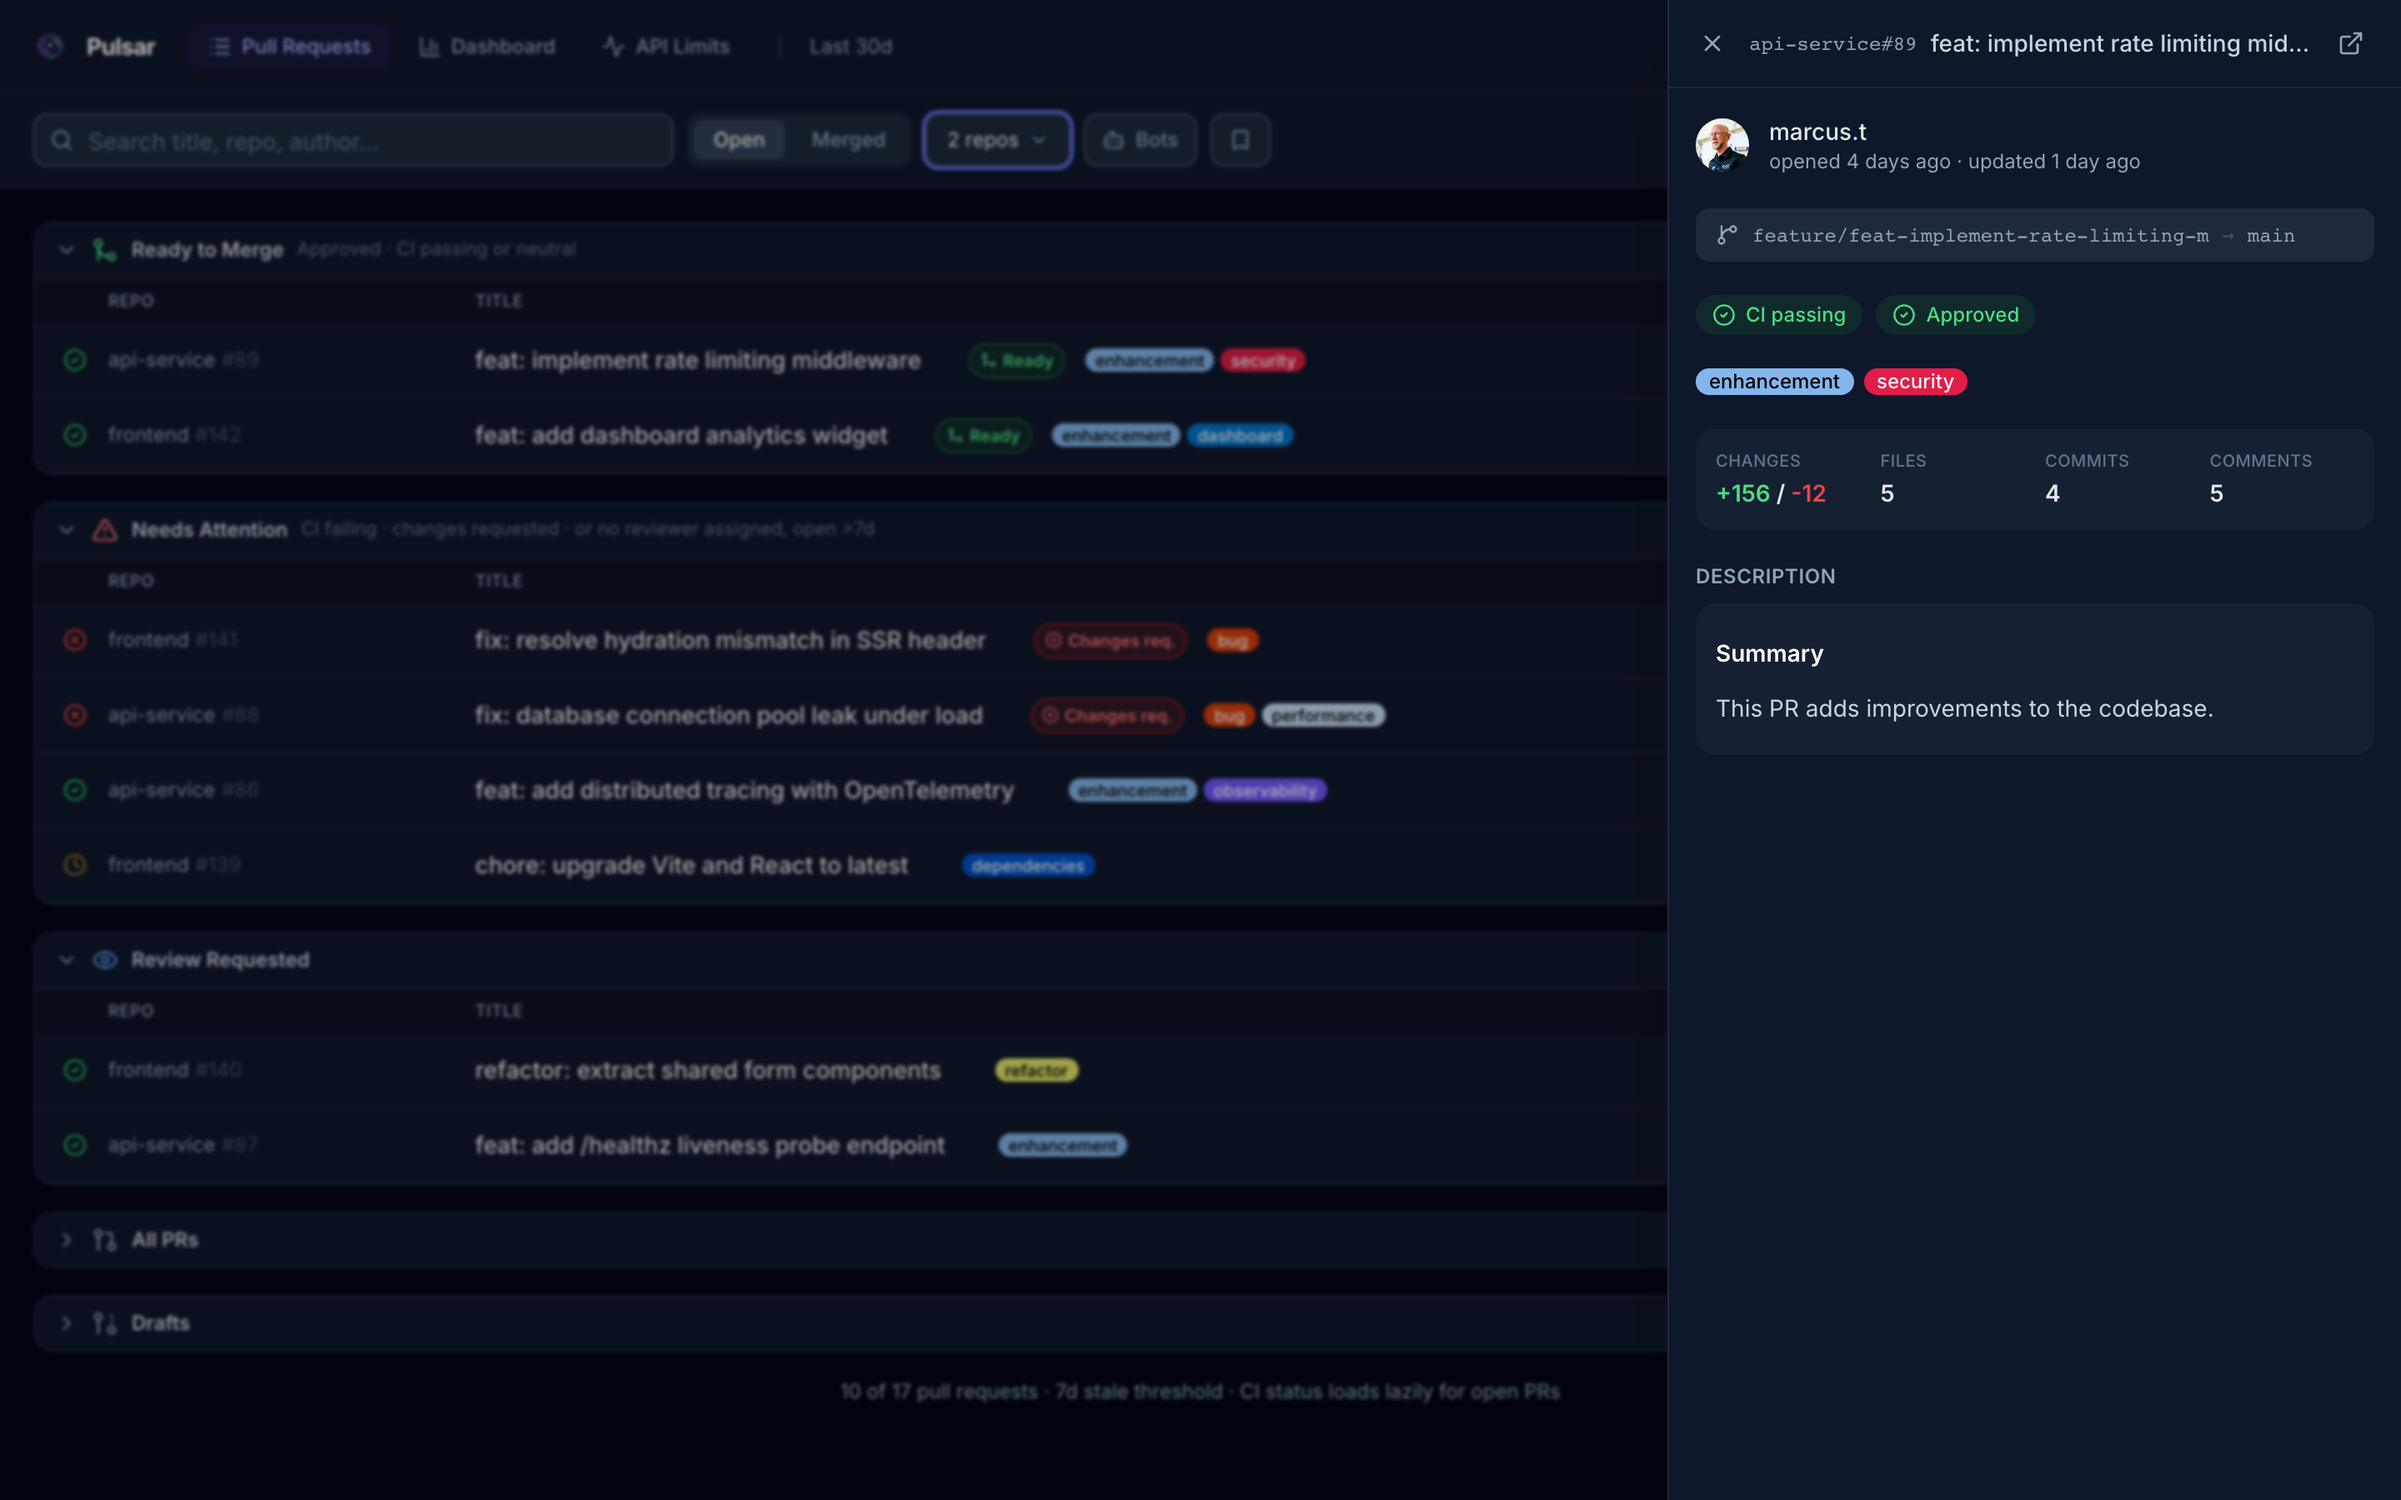
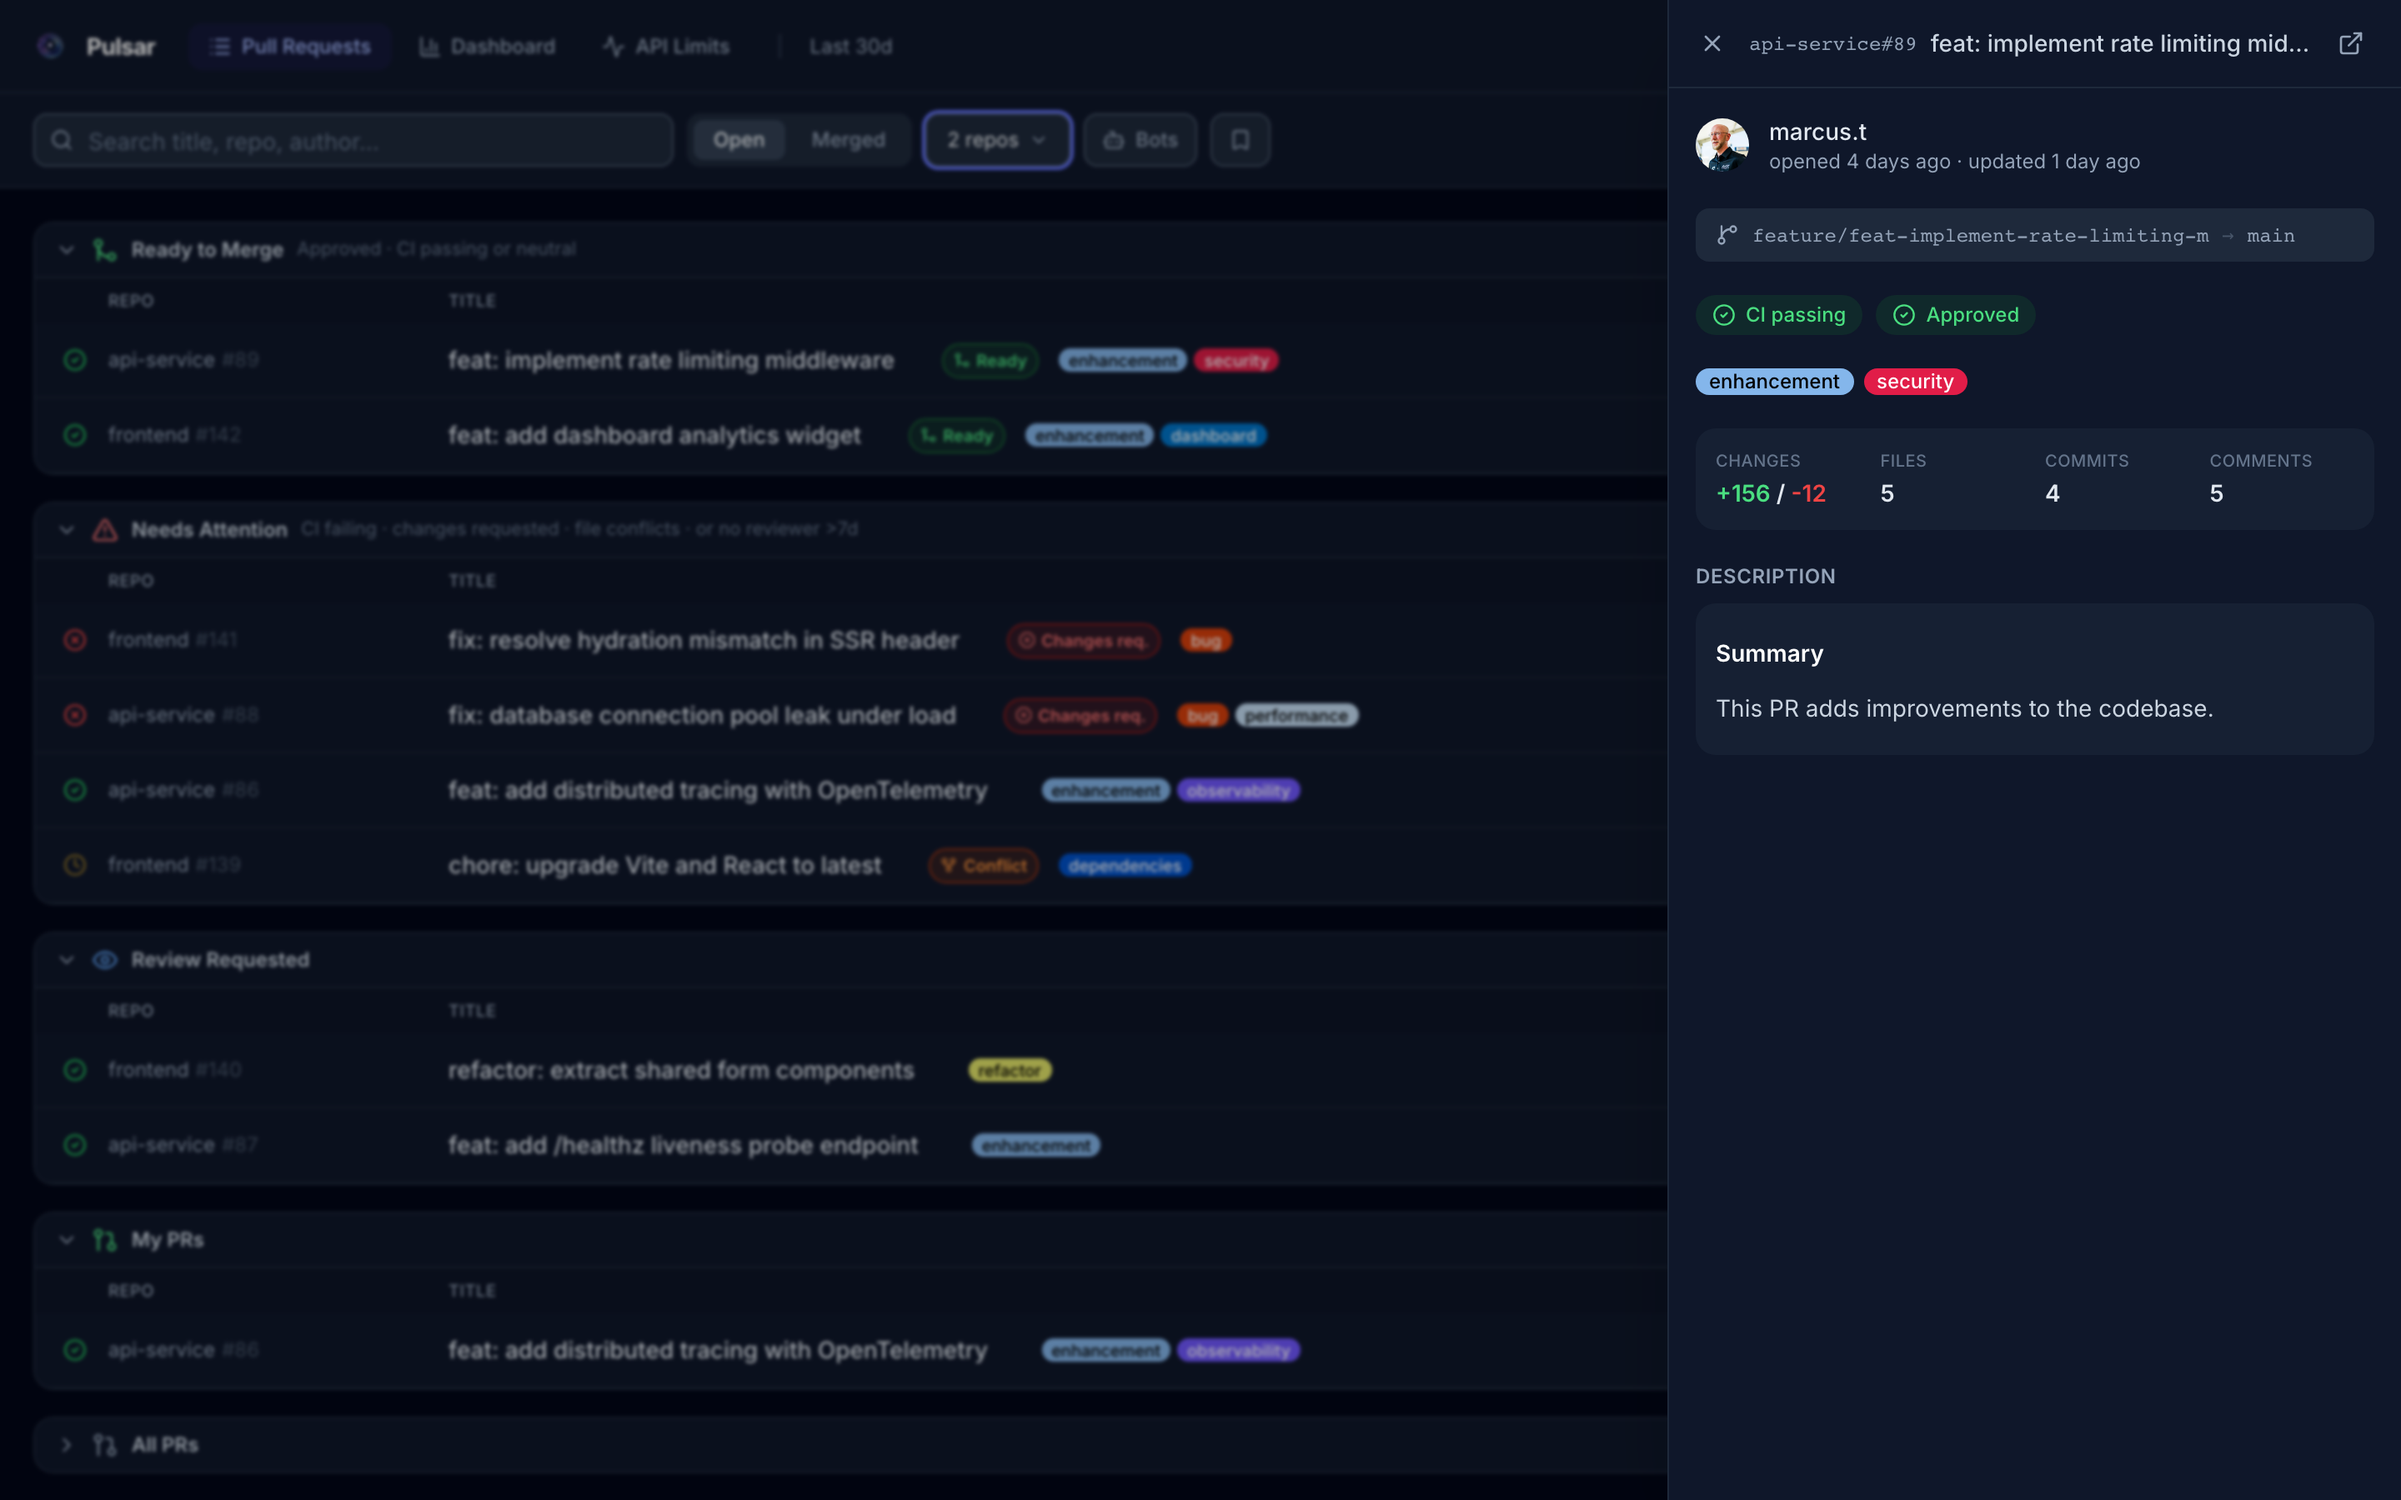
feat: refresh screenshots and update copy for new features
- Recapture all 6 screenshots showing PR size badge column and conflict badge
- Update Smart PR Sections description to mention automatic conflict escalation
- Add conflict badge example to the PR demo widget
- Rename Live CI Status to 'Live CI Status & PR Size' and describe size badges
- Add mergeable field to screenshot mock data so conflict badge renders

diff --git a/index.html b/index.html
@@ -841,7 +841,7 @@
           <svg width="22" height="22" viewBox="0 0 24 24" fill="none" stroke="var(--brand-400)" stroke-width="2.2" stroke-linecap="round" stroke-linejoin="round"><path d="M6 3v12"/><circle cx="6" cy="18" r="3"/><circle cx="6" cy="3" r="3"/><path d="M18 6a3 3 0 0 1 0 6 3 3 0 0 1-3-3c0-.55.15-1.07.42-1.52"/><path d="M6 6h6a3 3 0 0 1 3 3"/></svg>
         </div>
         <div class="feature-title">Smart PR Sections</div>
-        <div class="feature-desc">PRs land in <strong style="color:var(--slate-200)">Ready to Merge</strong>, <strong style="color:var(--slate-200)">Needs Attention</strong>, <strong style="color:var(--slate-200)">Review Requested</strong>, <strong style="color:var(--slate-200)">My PRs</strong>, or <strong style="color:var(--slate-200)">Drafts</strong> based on their current state. No manual sorting needed.</div>
+        <div class="feature-desc">PRs land in <strong style="color:var(--slate-200)">Ready to Merge</strong>, <strong style="color:var(--slate-200)">Needs Attention</strong>, <strong style="color:var(--slate-200)">Review Requested</strong>, <strong style="color:var(--slate-200)">My PRs</strong>, or <strong style="color:var(--slate-200)">Drafts</strong> based on their current state. PRs with merge conflicts are automatically escalated to Needs Attention. No manual sorting needed.</div>
         <!-- Live PR demo widget -->
         <div class="pr-demo" style="margin-top:18px;">
           <div class="pr-demo-header">
@@ -870,6 +870,12 @@
             <div class="pr-author">marcus.t</div>
             <div class="pr-label label-red">CI failed</div>
           </div>
+          <div class="pr-demo-row">
+            <div class="pr-ci-dot" style="background:var(--amber-400)"></div>
+            <div class="pr-title">chore: upgrade Vite and React to latest</div>
+            <div class="pr-author">leo.wang</div>
+            <div class="pr-label" style="background:rgba(251,191,36,0.15);color:var(--amber-400);border-color:rgba(251,191,36,0.3)">Conflict</div>
+          </div>
         </div>
       </div>
 
@@ -877,8 +883,8 @@
         <div class="feature-icon feature-icon-green">
           <svg width="22" height="22" viewBox="0 0 24 24" fill="none" stroke="var(--green-400)" stroke-width="2.2" stroke-linecap="round" stroke-linejoin="round"><path d="M22 11.08V12a10 10 0 1 1-5.93-9.14"/><polyline points="22 4 12 14.01 9 11.01"/></svg>
         </div>
-        <div class="feature-title">Live CI Status</div>
-        <div class="feature-desc">Each PR shows its build status inline, pulled from GitHub Actions check runs. Green, yellow, red. No more tab switching to figure out if CI passed.</div>
+        <div class="feature-title">Live CI Status &amp; PR Size</div>
+        <div class="feature-desc">Each PR shows its build status inline, pulled from GitHub Actions check runs. Green, yellow, red. A <strong style="color:var(--slate-200)">size badge</strong> — Tiny, Small, Medium, Large, Huge — tells you how big the change is before you even open it.</div>
       </div>
 
       <div class="feature-card">
